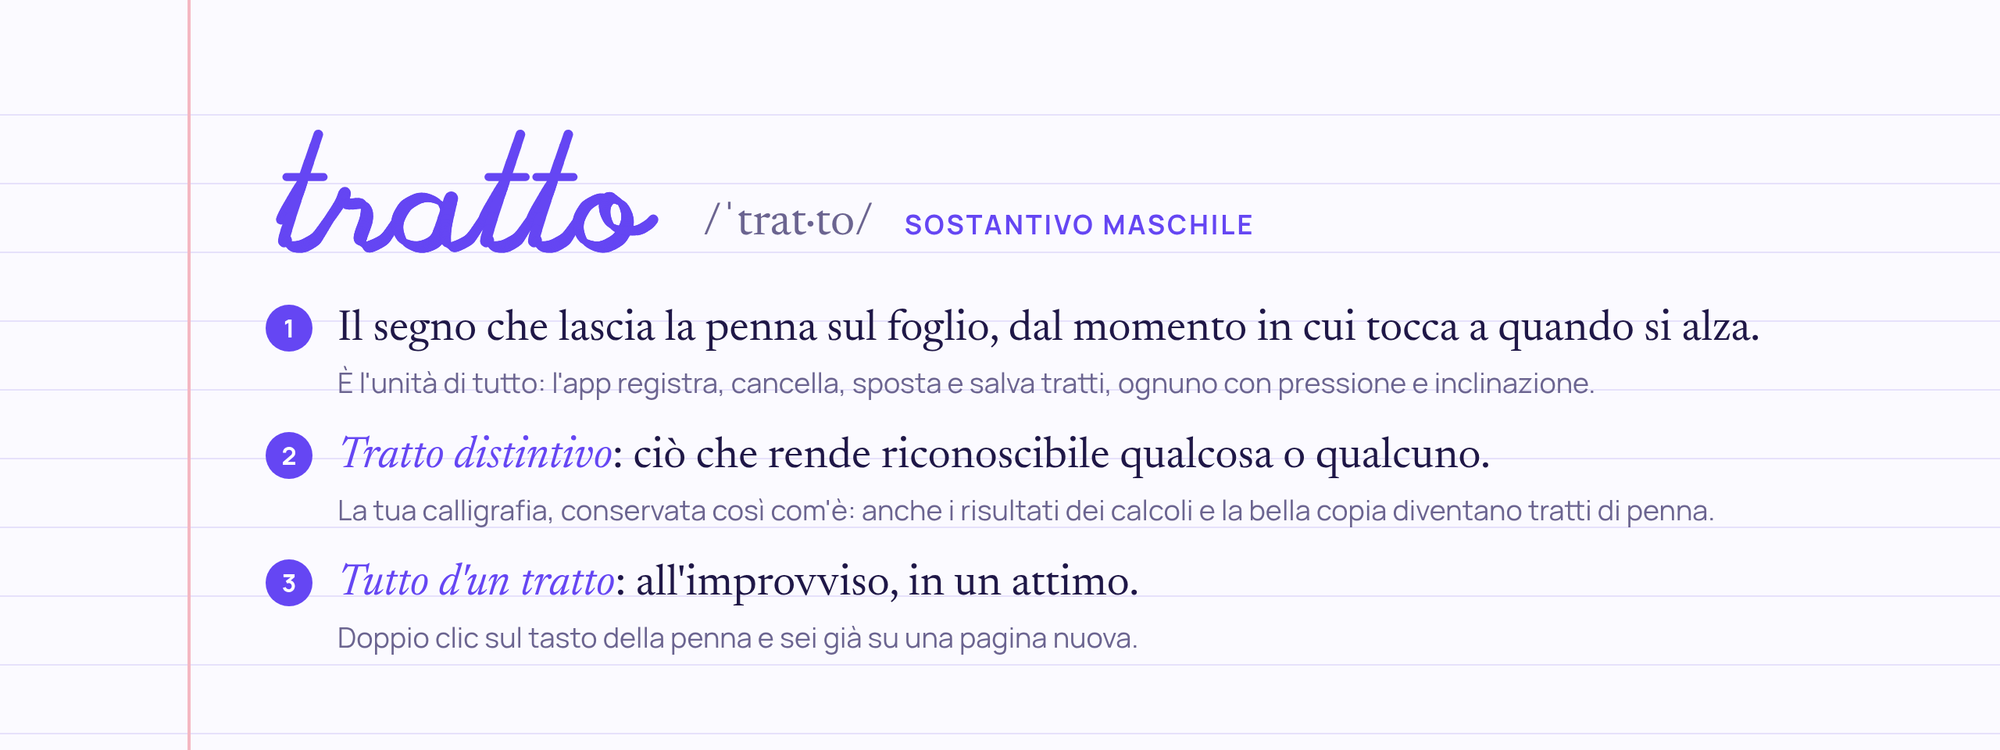
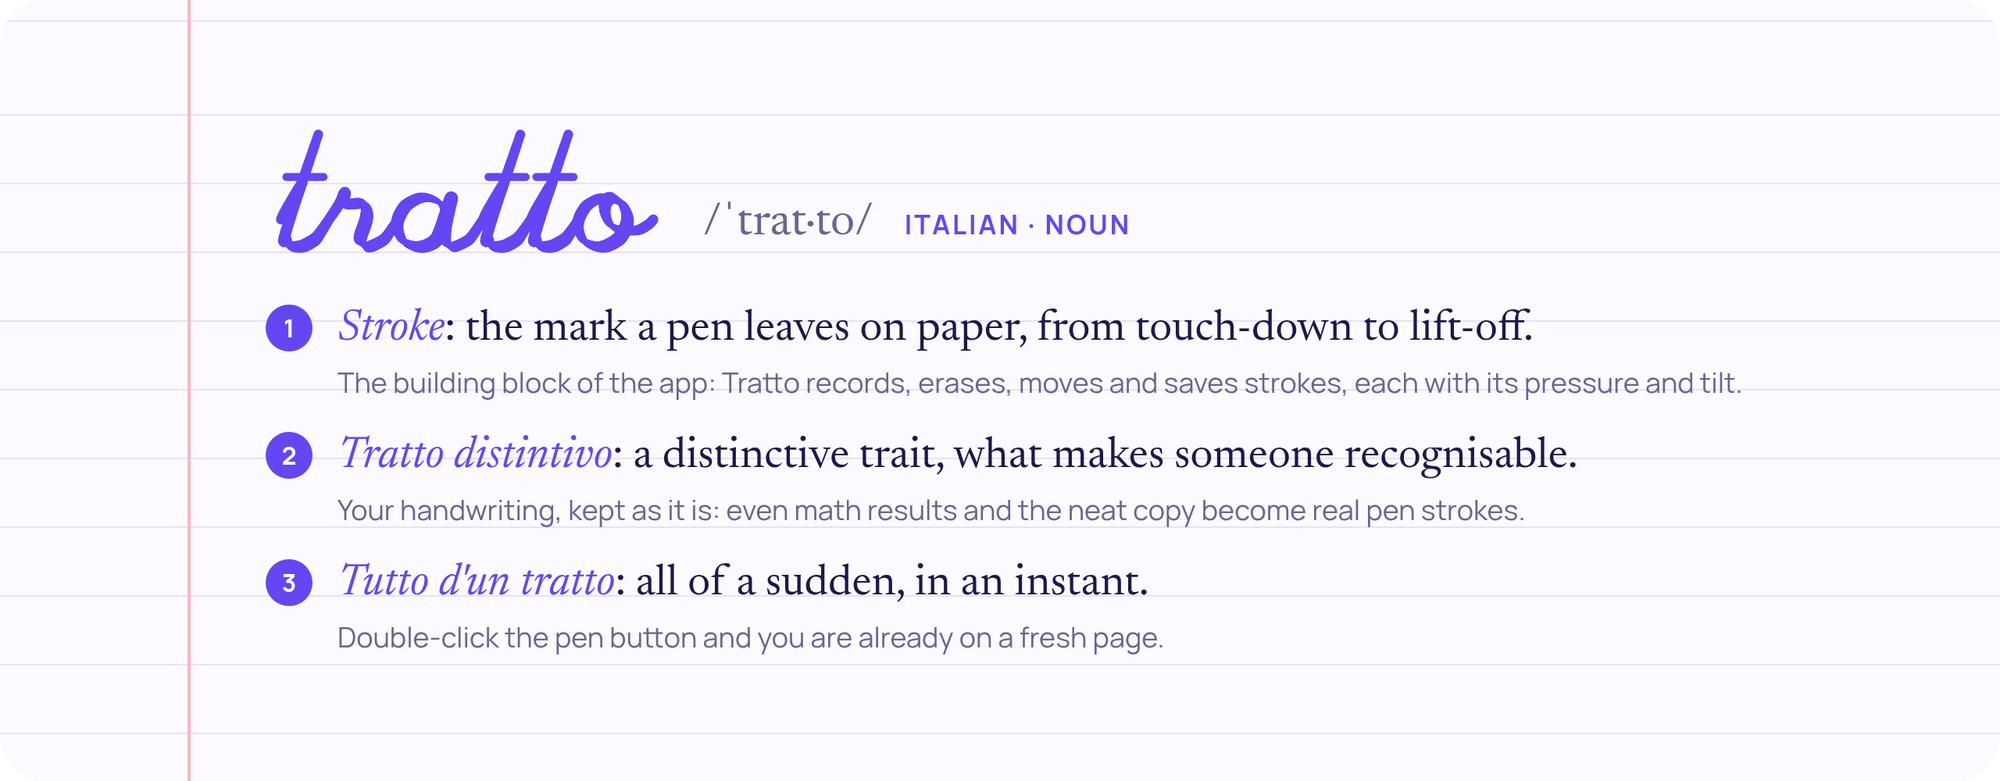
README in inglese, con il nome spiegato come parola italiana

Changed region(s): [[0.124, 0.552, 0.868, 0.8893], [0.124, 0.368, 0.899, 0.5213], [0.124, 0.184, 0.651, 0.3373]]

diff --git a/README.md b/README.md
@@ -1,116 +1,116 @@
 <p align="center">
-  <img src="docs/immagini/banner.png" alt="Tratto: note a mano per tablet Android, veloci come carta e penna" width="100%">
+  <img src="docs/immagini/banner.png" alt="Tratto: handwritten notes for Android tablets, as quick as pen and paper" width="100%">
 </p>
 
 <p align="center">
-  <a href="LICENSE"><img alt="Licenza MIT" src="https://img.shields.io/badge/licenza-MIT-6546F3?style=flat-square"></a>
+  <a href="LICENSE"><img alt="MIT license" src="https://img.shields.io/badge/license-MIT-6546F3?style=flat-square"></a>
   <img alt="Android 15+" src="https://img.shields.io/badge/Android-15%2B-3DDC84?style=flat-square&logo=android&logoColor=white">
-  <img alt="Kotlin" src="https://img.shields.io/badge/Kotlin-Compose-7F52FF?style=flat-square&logo=kotlin&logoColor=white">
-  <img alt="Jetpack Ink" src="https://img.shields.io/badge/inchiostro-Jetpack%20Ink-271E52?style=flat-square">
-  <img alt="Nessun tracciamento" src="https://img.shields.io/badge/tracciamento-nessuno-1F1747?style=flat-square">
+  <img alt="Kotlin and Jetpack Compose" src="https://img.shields.io/badge/Kotlin-Compose-7F52FF?style=flat-square&logo=kotlin&logoColor=white">
+  <img alt="Jetpack Ink" src="https://img.shields.io/badge/ink-Jetpack%20Ink-271E52?style=flat-square">
+  <img alt="No tracking" src="https://img.shields.io/badge/tracking-none-1F1747?style=flat-square">
 </p>
 
-**Tratto** è un'app di note a mano per tablet Android con penna attiva. È nata per sostituire Samsung Notes su un Galaxy Tab S6 Lite con LineageOS e fa le stesse cose: penne sensibili a pressione e inclinazione, lazo, pagine a righe o quadretti, PDF da annotare. In più scrive i risultati dei calcoli accanto alle formule, trascrive la tua calligrafia e fa il backup su Google Drive.
+**Tratto** is a handwriting notes app for Android tablets with an active stylus. It started as a Samsung Notes replacement for a Galaxy Tab S6 Lite running LineageOS, and does what Samsung Notes does: pens that respond to pressure and tilt, lasso, ruled and grid paper, PDFs you can write on. On top of that it solves the math you write, transcribes your handwriting and backs up to Google Drive.
 
-Niente account, niente pubblicità, niente statistiche: le note restano sul tablet, in file che puoi leggere anche senza l'app.
+No accounts, no ads, no analytics. Your notes stay on the tablet, in plain files that are documented below.
 
 <p align="center">
-  <img src="docs/immagini/vetrina-1.png" alt="Libreria, editor e annotazione di un PDF" width="100%">
+  <img src="docs/immagini/vetrina-1.png" alt="Library, editor and PDF annotation" width="100%">
 </p>
 
-## Perché si chiama Tratto
+## Why "Tratto"
 
 <p align="center">
-  <img src="docs/immagini/nome.png" alt="tratto, sostantivo maschile: il segno che lascia la penna; tratto distintivo; tutto d'un tratto" width="100%">
+  <img src="docs/immagini/nome.png" alt="tratto, Italian noun: a pen stroke; tratto distintivo, a distinctive trait; tutto d'un tratto, all of a sudden" width="100%">
 </p>
 
-## Cosa sa fare
+## Features
 
-### ✒ Scrivere come su carta
-- **Cinque strumenti**: stilografica con pennino a 45°, penna, matita (la pressione scurisce il segno, l'inclinazione lo allarga), evidenziatore che passa *sotto* l'inchiostro, pennello.
-- **Pressione e inclinazione** della penna, con sensibilità regolabile. L'inchiostro è disegnato in *front buffer* con [Jetpack Ink](https://developer.android.com/jetpack/androidx/releases/ink) e la predizione del movimento: il tratto sta attaccato alla punta.
-- **Gomma** per tratti interi o parziale, anche tenendo premuto il tasto della penna o con la punta gomma, sulle penne che ce l’hanno.
-- **Lazo** per spostare, ridimensionare, ricolorare, copiare e incollare anche tra note diverse.
-- **Palmo appoggiato**: le dita vengono ignorate mentre la penna tocca o si avvicina allo schermo. Con due dita scorri e ingrandisci, doppio tocco per tornare a pagina intera.
-- Pagine **bianche, a righe, a quadretti o a puntini**, annulla e ripeti, tema chiaro e scuro.
+### ✒ Write like on paper
+- **Five tools**: fountain pen with a 45° nib, ballpoint, pencil (pressure darkens it, tilt widens it), a highlighter that goes *under* the ink, and a brush.
+- **Pressure and tilt**, with adjustable sensitivity. Ink is drawn to the front buffer with [Jetpack Ink](https://developer.android.com/jetpack/androidx/releases/ink) plus motion prediction, so the stroke stays glued to the pen tip.
+- **Eraser** for whole strokes or partial erasing. It also works while you hold the pen button, or with the eraser end on pens that have one.
+- **Lasso** to move, resize, recolour, copy and paste, even between notes.
+- **Palm rejection**: fingers are ignored while the pen touches or hovers over the screen. Scroll and zoom with two fingers, double-tap to fit the page.
+- **Blank, ruled, grid or dotted** pages, undo and redo, light and dark theme.
 
-### ⚡ Una nota nuova in un attimo
-- **Doppio clic sul tasto della penna**: si apre subito una nota nuova, da qualunque punto dell'app.
-- Riquadro nelle impostazioni rapide, scorciatoia "Nuova nota" sull'icona e icona dedicata in Home.
-- Avvio a freddo in circa **0,4 secondi** sul Tab S6 Lite, animazioni di apertura che partono dalla copertina della nota.
+### ⚡ A new note in an instant
+- **Double-click the pen button** and a new note opens right away, from anywhere in the app.
+- Quick Settings tile, a "New note" launcher shortcut and a dedicated home screen icon.
+- Cold start in about **0.4 seconds** on a Tab S6 Lite. Opening a note animates it out of its cover.
 
 ### 📄 PDF
-- Apri un PDF da Tratto o condividilo verso Tratto da qualsiasi app, e scrivici sopra come su una pagina qualsiasi.
-- Esporta la nota in **PDF vettoriale** (l'inchiostro resta nitido a ogni ingrandimento) o una pagina come immagine.
+- Open a PDF from Tratto, or share one to Tratto from any app, and write on it like on any other page.
+- Export notes as **vector PDF** (the ink stays sharp at any zoom), or a single page as an image.
 
-### 🧮 Note matematiche
-Scrivi un'espressione e poi `=`: Tratto la legge e scrive il risultato accanto, come tratti di penna modificabili. Capisce `+ − × ÷`, frazioni, potenze, radici, parentesi, percentuali e π.
+### 🧮 Handwritten math
+Write an expression followed by `=` and Tratto writes the result next to it, as pen strokes you can edit. It understands `+ − × ÷`, fractions, powers, roots, parentheses, percentages and π.
 
-### 🔤 Trascrizione e bella copia
-Seleziona una frase col lazo e **trascrivila** in testo, da copiare o condividere. Oppure fai la **bella copia**: la frase viene riscritta al suo posto in corsivo o stampatello, con i caratteri a tratto singolo di [Hershey](https://en.wikipedia.org/wiki/Hershey_fonts). Il riconoscimento gira tutto sul tablet ([ML Kit Digital Ink](https://developers.google.com/ml-kit/vision/digital-ink-recognition)); serve la rete solo per scaricare una volta il modello italiano.
+### 🔤 Transcription and neat copy
+Lasso a sentence to **transcribe** it into text you can copy or share. Or make a **neat copy**: the sentence is rewritten in place in cursive or print, using the single-stroke [Hershey fonts](https://en.wikipedia.org/wiki/Hershey_fonts). Recognition runs entirely on the tablet with [ML Kit Digital Ink](https://developers.google.com/ml-kit/vision/digital-ink-recognition); the network is only needed once, to download the language model.
 
 ### ☁ Backup
-- **File `.tratto`**: tutte le note in un unico file da salvare dove vuoi, ripristinabile unendo o sostituendo.
-- **Google Drive**: backup automatico (anche solo su Wi‑Fi o in carica) in una cartella che vede solo Tratto. L'app usa il permesso `drive.file`: non può leggere nient'altro del tuo Drive. Dettagli in [docs/backup.md](docs/backup.md).
+- **`.tratto` file**: all your notes in one file you can store anywhere, restored by merging or replacing.
+- **Google Drive**: automatic backups (optionally only on Wi‑Fi or while charging) into a folder only Tratto can see. The app asks for the `drive.file` scope, so it cannot read anything else in your Drive. Details in [docs/backup.md](docs/backup.md).
 
 <p align="center">
-  <img src="docs/immagini/vetrina-2.png" alt="Pannello delle penne, trascrizione e tema scuro" width="100%">
+  <img src="docs/immagini/vetrina-2.png" alt="Pen panel, transcription and dark theme" width="100%">
 </p>
 
-## Installare
+## Install
 
-| Dove | Versione | Note |
+| Where | Build | Notes |
 | --- | --- | --- |
-| **Repository F-Droid di Tratto** | completa | Aggiornamenti automatici dal client F-Droid. Istruzioni qui sotto. |
-| **F-Droid ufficiale** | libera | In arrivo. Senza componenti Google: niente trascrizione, note matematiche e Drive. Il backup automatico va in una cartella a scelta. |
-| **[Release su GitHub](https://github.com/Frumorn12/tratto/releases)** | completa | APK da installare a mano. |
+| **Tratto's F-Droid repository** | full | Automatic updates through the F-Droid client. See below. |
+| **Official F-Droid** | free | Coming soon. No Google components, so no transcription, math or Drive; automatic backups go to a folder of your choice instead. |
+| **[GitHub releases](https://github.com/Frumorn12/tratto/releases)** | full | APK to install by hand. |
 
-Serve **Android 15 o più recente** su processore a 64 bit (arm64) e una penna attiva (S Pen, Wacom EMR, USI). Tratto è provato ogni giorno su un Galaxy Tab S6 Lite (SM-P610) con LineageOS 23.2.
+Tratto needs **Android 15 or newer**, a 64-bit ARM processor and an active stylus (S Pen, Wacom EMR, USI). It is used every day on a Galaxy Tab S6 Lite (SM-P610) running LineageOS 23.2.
+
+The interface is in Italian for now. Translations are welcome.
 
 <!-- repo-fdroid -->
 
-## Come sono fatte le note
+## How notes are stored
 
-Tutto sta nella memoria privata dell'app, in file semplici:
+Everything lives in the app's private storage, in simple files:
 
 ```
 tratto/
-├── indice.json                 note, cartelle, preferite
+├── indice.json                 notes, folders, favourites
 └── note/<id>/
-    ├── nota.json               titolo, pagine, sfondi
-    ├── pagine/<pagina>.tp      i tratti della pagina (binario)
-    ├── allegato.pdf            il PDF originale, se c'è
-    └── anteprima.webp          la copertina
+    ├── nota.json               title, pages, backgrounds
+    ├── pagine/<page>.tp        the page's strokes (binary)
+    ├── allegato.pdf            the original PDF, if any
+    └── anteprima.webp          the cover
 ```
 
-Un file `.tp` comincia con `TRTP` e la versione, poi contiene i tratti uno dopo l'altro in little endian: penna, colore, spessore e per ogni punto `x, y, pressione, inclinazione, orientamento, tempo`. Le pagine si salvano in modo atomico (file temporaneo, `fsync`, rinomina): un'interruzione non lascia mai una pagina a metà. Il backup `.tratto` è uno ZIP con la stessa struttura.
+A `.tp` file starts with `TRTP` and a version number, followed by the strokes in little endian: tool, colour, size, and for every point `x, y, pressure, tilt, orientation, time`. Pages are saved atomically (temporary file, `fsync`, rename), so an interruption never leaves a half-written page. A `.tratto` backup is a ZIP with the same layout.
 
-## Compilare
+## Building
 
-Servono JDK 21 e l'Android SDK (piattaforma 37).
+You need JDK 21 and the Android SDK (platform 37).
 
 ```sh
 export ANDROID_HOME=$HOME/Android/Sdk
-./gradlew :app:assembleCompletaRelease   # con ML Kit e Google Drive
-./gradlew :app:assembleLiberaRelease     # solo software libero, quella di F-Droid
+./gradlew :app:assembleCompletaRelease   # full build: ML Kit and Google Drive
+./gradlew :app:assembleLiberaRelease     # free software only, the F-Droid build
 ./gradlew :app:testCompletaDebugUnitTest
 ```
 
-`tools/installa.sh` compila, installa sul tablet collegato e precompila l'app con `cmd package compile -m speed`. `tools/penna.py` simula la S Pen (pressione, inclinazione, tasto, scrittura in corsivo) scrivendo eventi in `/dev/input`: è così che Tratto viene provato senza toccare il tablet.
+`tools/installa.sh` builds, installs on the connected tablet and precompiles the app with `cmd package compile -m speed`. `tools/penna.py` simulates the S Pen (pressure, tilt, button, cursive handwriting) by writing events to `/dev/input`: that is how Tratto gets tested without touching the tablet.
 
-## Grazie a
+The code, comments and commit messages are in Italian.
 
-- [Jetpack Ink](https://developer.android.com/jetpack/androidx/releases/ink) e [Jetpack Compose](https://developer.android.com/compose) (Apache 2.0)
+## Thanks to
+
+- [Jetpack Ink](https://developer.android.com/jetpack/androidx/releases/ink) and [Jetpack Compose](https://developer.android.com/compose) (Apache 2.0)
 - [PdfBox-Android](https://github.com/TomRoush/PdfBox-Android) (Apache 2.0)
-- [ML Kit Digital Ink Recognition](https://developers.google.com/ml-kit/vision/digital-ink-recognition), solo nella versione completa
-- [Manrope](https://github.com/sharanda/manrope) di Mikhail Sharanda (SIL Open Font License, [docs/OFL-Manrope.txt](docs/OFL-Manrope.txt))
-- I caratteri di [A. V. Hershey](https://en.wikipedia.org/wiki/Hershey_fonts) ([docs/Hershey-fonts.txt](docs/Hershey-fonts.txt))
+- [ML Kit Digital Ink Recognition](https://developers.google.com/ml-kit/vision/digital-ink-recognition), full build only
+- [Manrope](https://github.com/sharanda/manrope) by Mikhail Sharanda (SIL Open Font License, [docs/OFL-Manrope.txt](docs/OFL-Manrope.txt))
+- The fonts of [A. V. Hershey](https://en.wikipedia.org/wiki/Hershey_fonts) ([docs/Hershey-fonts.txt](docs/Hershey-fonts.txt))
 - [Material Symbols](https://fonts.google.com/icons) (Apache 2.0)
 
-## In English
+## License
 
-**Tratto** ("stroke", as in a pen stroke) is a handwriting notes app for Android tablets with an active stylus, built as a Samsung Notes replacement for a Galaxy Tab S6 Lite running LineageOS. Pressure- and tilt-sensitive pens with low-latency front-buffered ink, lasso, eraser, ruled/grid/dot pages, PDF annotation and vector PDF export, handwritten math (write an expression and `=`, the result appears next to it), on-device handwriting transcription, and backups to a file or Google Drive. No accounts, no ads, no analytics. The UI is in Italian.
-
-## Licenza
-
-[MIT](LICENSE): puoi usare, modificare e ridistribuire Tratto come vuoi, anche in progetti commerciali, mantenendo l'avviso di copyright.
+[MIT](LICENSE): use, modify and redistribute Tratto however you like, including in commercial projects, as long as you keep the copyright notice.
